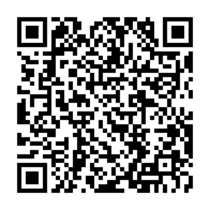
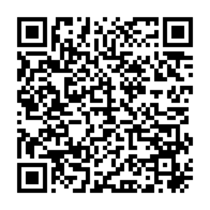
thanks duyen pay

diff --git a/Verification_Certificate.py b/Verification_Certificate.py
@@ -28,7 +28,7 @@ def base64_to_bin(data):
 
 def verify_timestamp(data):
     ProcessTSQ = subprocess.Popen([
-        "openssl ts -query -data ./verify_signature_stegno.sig -no_nonce -sha512 -cert -out ./ts/ts_query_verify.tsq"
+        "openssl ts -query -data ./verify_sig_qrcode.sig -no_nonce -sha512 -cert -out ./ts/ts_query_verify.tsq"
     ],
                                   shell=True,
                                   stdout=subprocess.PIPE)
@@ -56,7 +56,7 @@ def verify_timestamp(data):
 
 def verify_signature(data):
     Process = subprocess.Popen([
-        "openssl dgst -verify CA/ecc.ca.pubkey.pem -signature {} CA/info.txt".
+        "openssl dgst -verify CA/ecc.ca.pubkey.pem -signature {} info.txt".
         format(data)
     ],
                                shell=True,
@@ -72,35 +72,31 @@ def verify_signature(data):
 
 def get_data_from_stegano():
     image = Image.open("attestation_a_verifier.png")
-    fullMessage = recuperer(image, 7420)
+    fullMessage = recuperer(image, 7388)
     # print(fullMessage)
-    signature = fullMessage[:96]
-    timeStamp = fullMessage[96:]
+    infoBlock = fullMessage[:64]
+    timeStamp = fullMessage[64:]
 
-    print(len(signature))
+    print(len(infoBlock))
     print(len(timeStamp))
     timeStamp = base64_to_bin(timeStamp)
-    signature = base64_to_bin(signature)
     print(len(timeStamp))
-    print(len(signature))
 
     f = open("verify_timestamp.tsr", "wb")
     f.write(timeStamp)
     f.close()
 
-    f = open("verify_signature_stegno.sig", "wb")
-    f.write(signature)
+    f = open("info.txt", "w")
+    f.write(infoBlock)
     f.close()
 
-    return signature, timeStamp
+    return infoBlock, timeStamp
 
 
 def verify_certificate():
     get_qrcode_png()
     get_data_from_qrcode()
-    _, _= get_data_from_stegano()
-    if (verify_signature("verify_sig_qrcode.sig") == True) and (
-            verify_timestamp("verify_timestamp.tsr")
-            == True) and (verify_signature("verify_signature_stegno.sig")
-                          == True):
-        print("Verify success certificate")
+    _, _ = get_data_from_stegano()
+    if (verify_signature("verify_sig_qrcode.sig")
+            == True) and (verify_timestamp("verify_timestamp.tsr") == True):
+        return "Verify success certificate"

diff --git a/Creation_Certificate.py b/Creation_Certificate.py
@@ -131,11 +131,16 @@ def bin_to_base64(file):
     return base64.b64encode(data).decode('ascii')
 
 
-def create_certificate(nomEtPrenom, institute, info):
-    if(create_signature(info)):
+def create_certificate(nomEtPrenom, institute):
+    signature = nomEtPrenom + institute
+    print(signature)
+    if(create_signature(signature)):
         create_timespamp("./CA/signature.sig")
         signatureAscii = bin_to_base64("./CA/signature.sig")
-        print("----\n", len(signatureAscii))
+        f = open("./CA/info.txt", "r")
+        infoBlock = f.read()
+        f.close()
+        print("----\n", len(infoBlock))
         create_qrcode(signatureAscii)
         generate_text_image(nomEtPrenom, institute)
         combine_image()
@@ -143,7 +148,8 @@ def create_certificate(nomEtPrenom, institute, info):
 
         timestampAscii = bin_to_base64("./ts/ts_respond.tsr")
         print("----\n", len(timestampAscii))
-        messageStegano = signatureAscii + timestampAscii
+        messageStegano = infoBlock + timestampAscii
         img = Image.open("attestation.png")
         cacher(img, messageStegano)
         img.save("attestation.png")
+        return "Create certificate successfully"

diff --git a/Web_Service.py b/Web_Service.py
@@ -8,9 +8,9 @@ def creation_attestation():
 
     contenu_identite = request.forms.get('identite')
     contenu_intitule_certification = request.forms.get('intitule_certif')
-    info = request.forms.get('info')
-    result = create_certificate(contenu_identite, contenu_intitule_certification, info)
+    result = create_certificate(contenu_identite, contenu_intitule_certification)
     response.set_header('Content-type', 'text/plain')
+    print("create certificate successfully")
     return result
 
 
@@ -20,6 +20,7 @@ def verification_attestation():
     contenu_image.save('attestation_a_verifier.png', overwrite=True)
     response.set_header('Content-type', 'text/plain')
     status = verify_certificate()
+    print("Verify certificate successfully")
     return status
 
 

diff --git a/report/main.md b/report/main.md
@@ -69,3 +69,16 @@ In this project, we are suppose to implement a distribution processsecure electr
 ## 2.2 Methodologies
 
 ### A. Creating certficate
+
+An user will request CertifPlus for creating a certificate by providing his/her informations containing Last name and First name, Institue and a signature data (more details will be described in the analysis risk part)
+
+First of all, we sign their signature using `SHA-256` with binary file output and using encrypted CA key.
+
+
+
+
+
+
+
+
+
